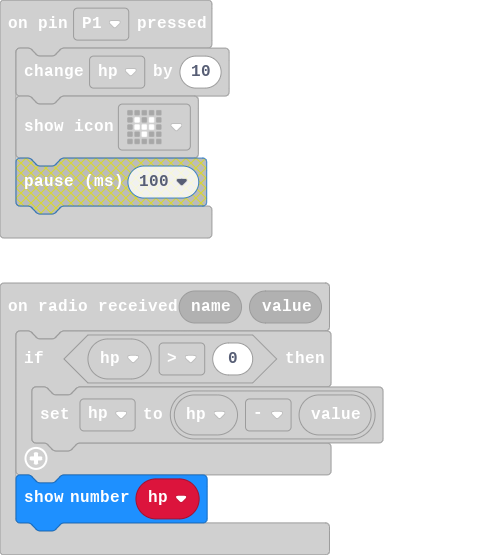
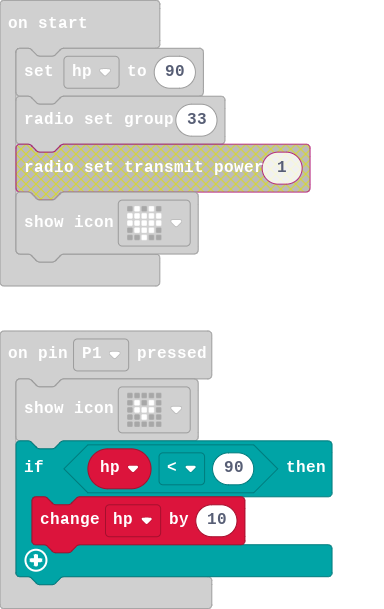
Update main.blocks, main.ts

diff --git a/main.ts b/main.ts
@@ -1,6 +1,8 @@
 input.onPinPressed(TouchPin.P1, function () {
-    hp += 10
     basic.showIcon(IconNames.SmallHeart)
+    if (hp < 90) {
+        hp += 10
+    }
 })
 radio.onReceivedValue(function (name, value) {
     if (hp > 0) {
@@ -14,7 +16,6 @@ input.onGesture(Gesture.ThreeG, function () {
 let hp = 0
 hp = 90
 radio.setGroup(33)
-radio.setTransmitPower(1)
 basic.showIcon(IconNames.Heart)
 basic.forever(function () {
     if (hp > 70) {
